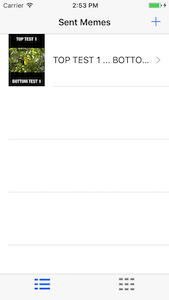
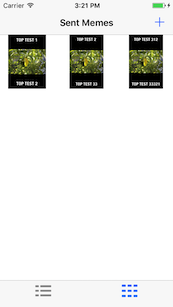
updates screenshots

diff --git a/README.md b/README.md
@@ -3,6 +3,8 @@ Project Submission for the course NanoDegree - iOS Developer at Udacity
 
 This app allows users to take pictures using the camera or select one from the galery. Which the picture selected, it's possible to place text on the top and bottom "a la" meme style. Then the user has the possibility to export the picture and share with his friends/coleagues.
 
+This version contains list of memes created (grid and table) and allows you to edit (copy) an existing one or create a new one from the scratch.
+
 Requirements:
 https://review.udacity.com/#!/projects/3063329127/rubric
 https://docs.google.com/document/d/1G2onkzN_weWmiYErhQJw1lB9-zxM-2TQ0N5bNMAaI7I/pub?embedded=true
@@ -28,6 +30,3 @@ Specs
 
 ![](/Screenshots/08.png)
 
-![](/Screenshots/09.png)
-
-![](/Screenshots/10.png)
